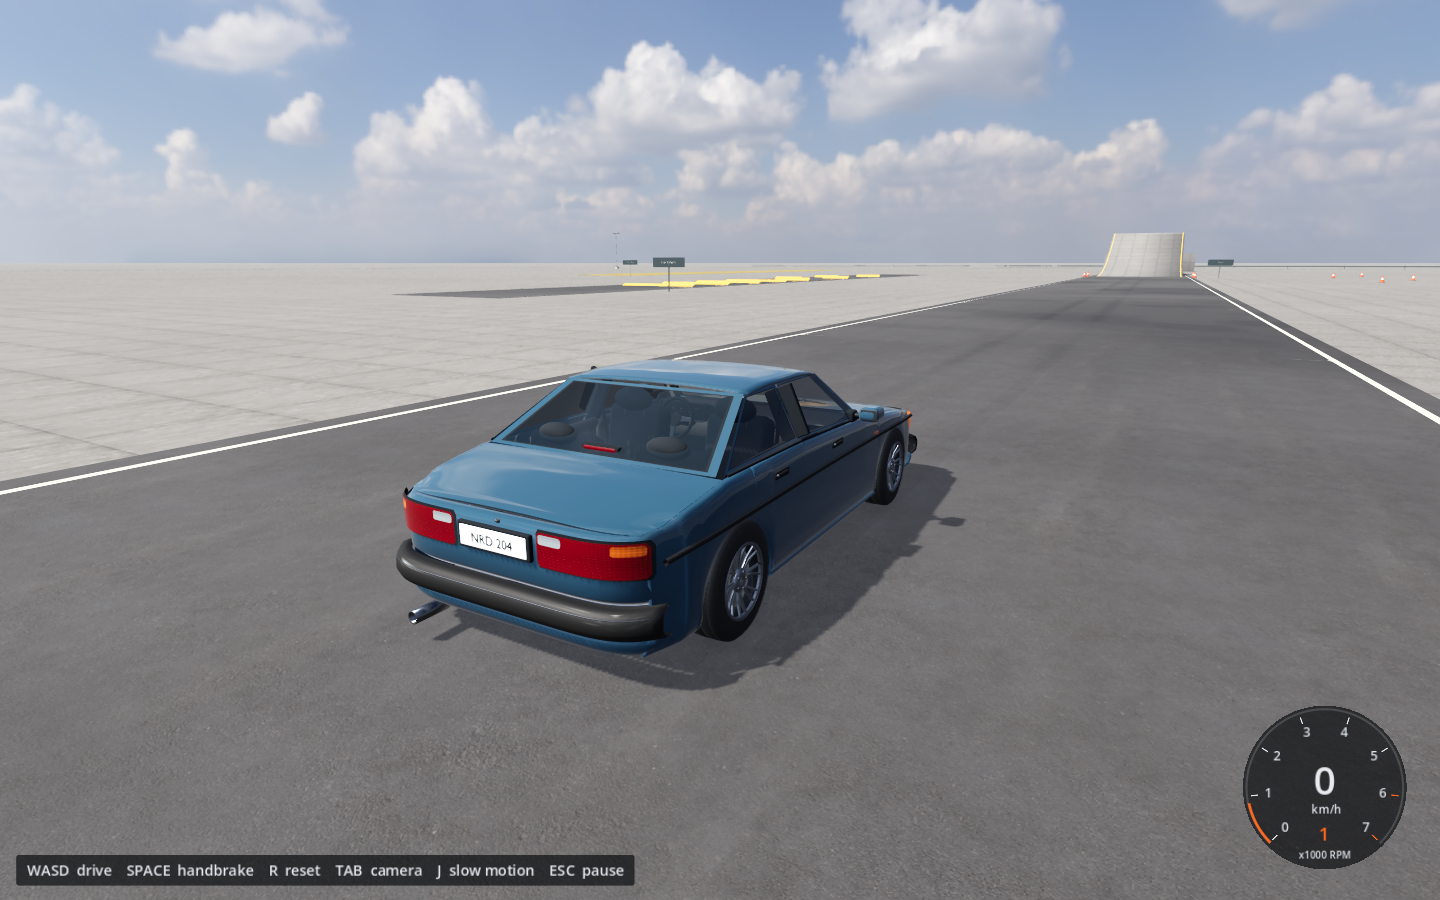
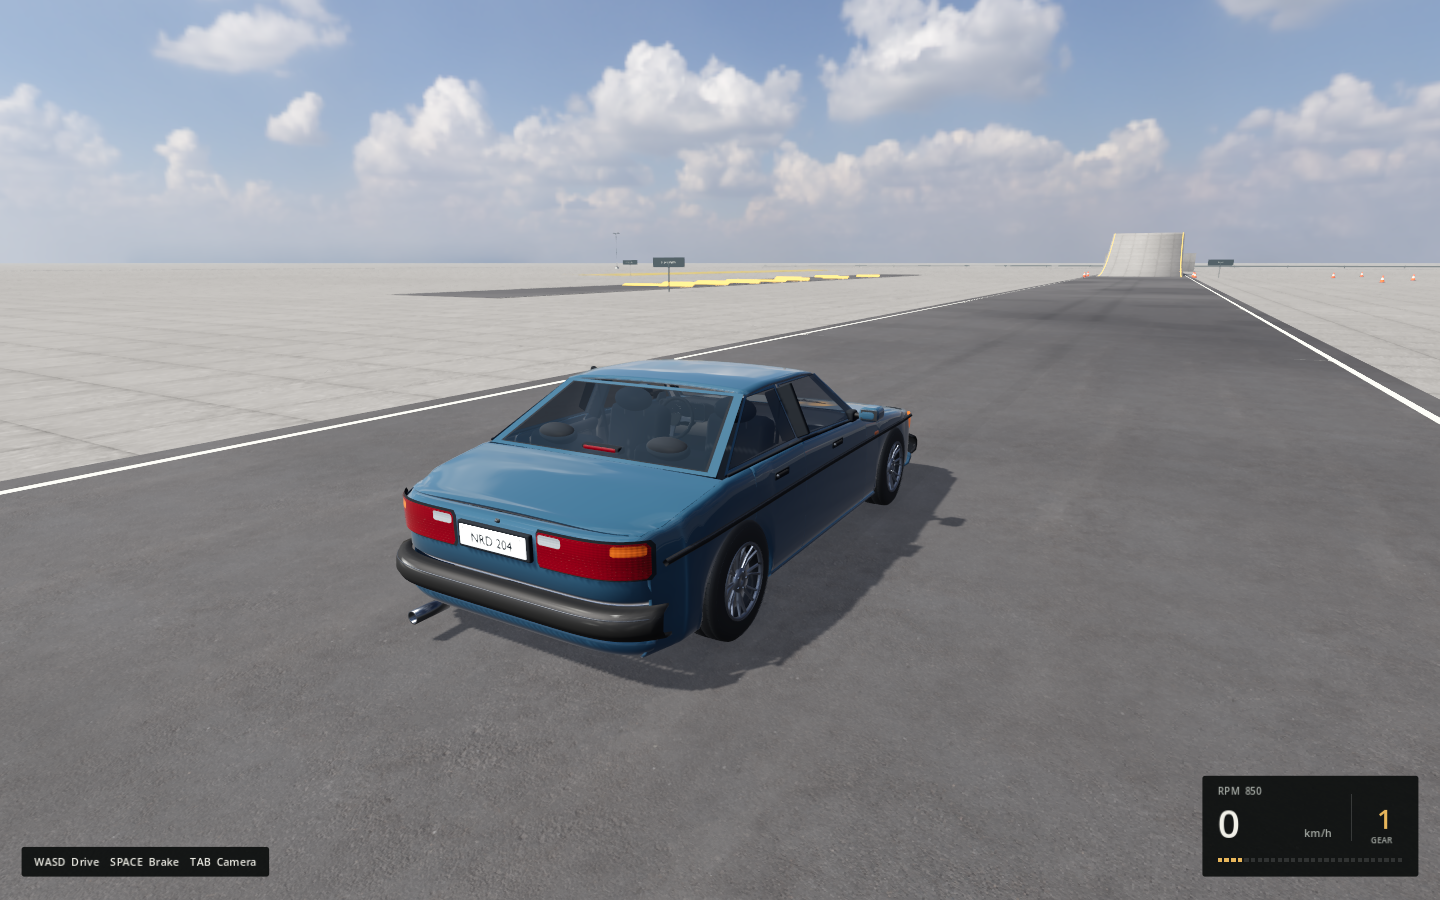
Introduce Olley instruments and focused pause controls

Changed region(s): [[0.8125, 0.7778, 1.0, 0.9956], [0.0, 0.9333, 0.4375, 0.9956]]

diff --git a/README.md b/README.md
@@ -1,8 +1,10 @@
-# Vehicle Physics
+# Olley
 
 A Godot driving sandbox with custom suspension, tire forces, impact deformation, and cockpit mirrors. Drive a sedan through ramps, bumps, and crash barriers, or run scripted scenarios that export telemetry.
 
 ![Proving Ground gameplay](docs/gameplay.png)
+
+Named for Maurice Olley’s [independent suspension research](https://saemobilus.sae.org/papers/independent-wheel-suspension-whys-wherefores-340080). The UI borrows compact scales, segmented readouts and warning hierarchy from physical vehicle instrumentation.
 
 ## Run
 
@@ -13,7 +15,7 @@ godot --headless --editor --path . --import
 godot --path .
 ```
 
-A self-contained Apple Silicon build is available in [Releases](https://github.com/dicnunz/vehicle-physics/releases). It requires macOS 13 or later and is ad hoc signed, without Apple notarization.
+A self-contained Apple Silicon build is available in [Releases](https://github.com/dicnunz/vehicle-physics/releases/latest). It requires macOS 13 or later and is ad hoc signed, without Apple notarization.
 
 | Control | Action |
 | --- | --- |
